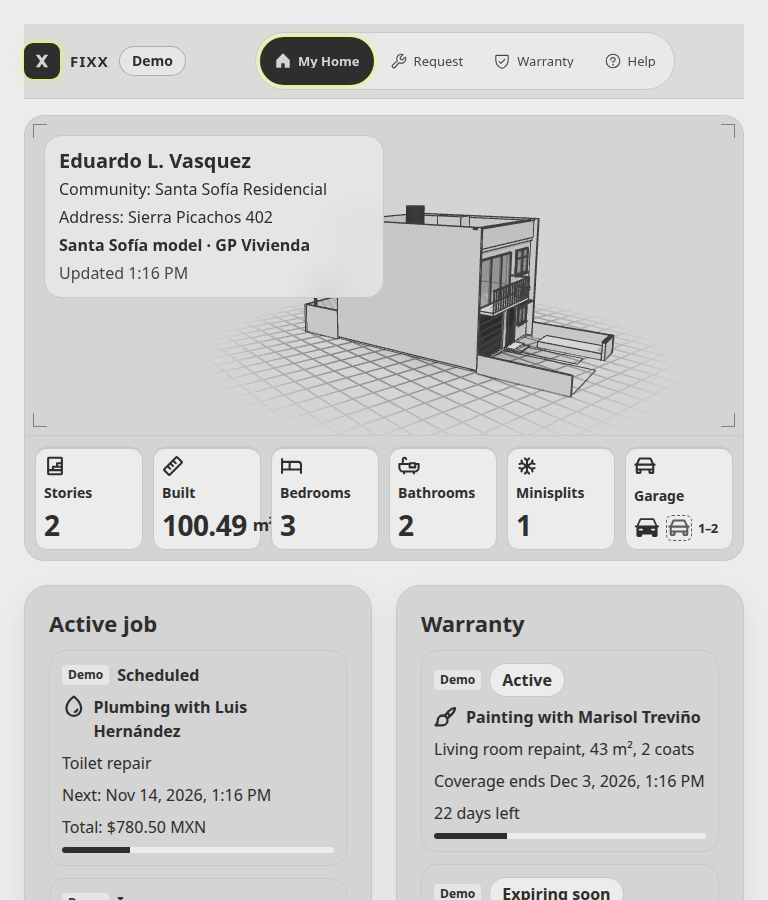
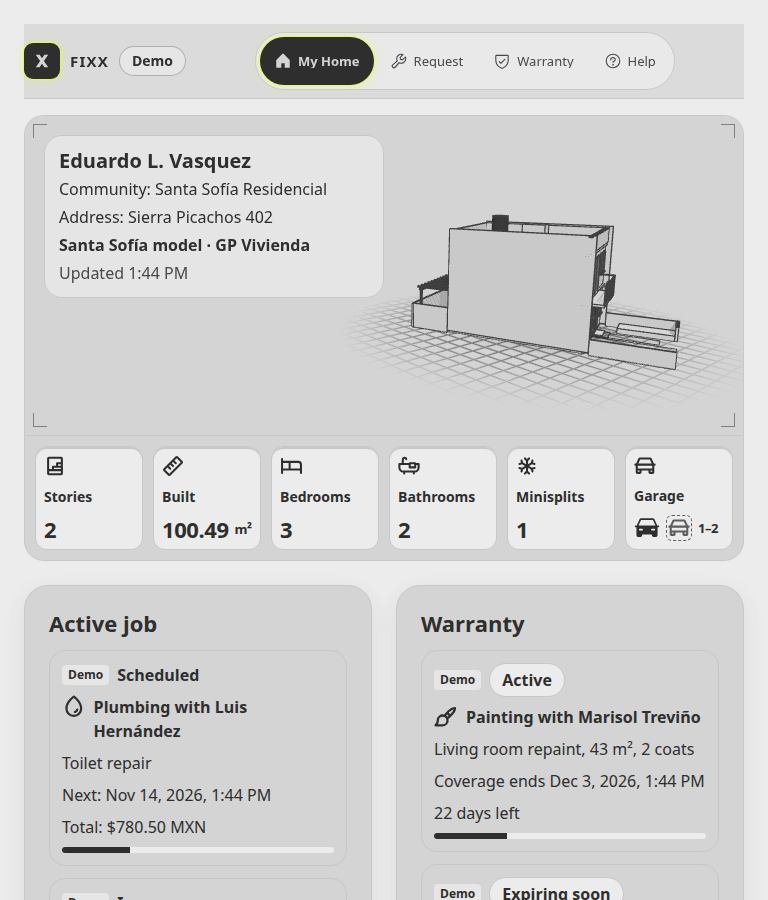
Keep the tablet house clear of the name plate and fit the area value.
At 768 the whole model stays at least 16px to the right of the plate, including a selected fact. Wide readout values stay 22px until a cell is 140px wide, and the built view pulls back far enough to show the slab and the roof.

diff --git a/src/features/customer/blueprint/houseModel.ts b/src/features/customer/blueprint/houseModel.ts
@@ -165,6 +165,102 @@ export function placeCamera(min: Vec3, max: Vec3, aspect: number, samples = 180,
   };
 }
 
+/** Left edge, in NDC, that stays 16px right of the tablet HUD plate. */
+export function hudClearNdc(canvasWidth: number): number {
+  const plate = Math.min(340, Math.max(0, canvasWidth - 40));
+  // 16px of clearance, plus the outline stroke that sits outside the mesh box.
+  const clearPx = 20 + plate + 28;
+  return (clearPx / Math.max(canvasWidth, 1)) * 2 - 1;
+}
+
+function cameraDistance(placement: CameraPlacement): number {
+  return Math.hypot(
+    placement.position.x - placement.target.x,
+    placement.position.y - placement.target.y,
+    placement.position.z - placement.target.z
+  ) || 1;
+}
+
+function withDistance(placement: CameraPlacement, scale: number): CameraPlacement {
+  const dx = placement.position.x - placement.target.x;
+  const dy = placement.position.y - placement.target.y;
+  const dz = placement.position.z - placement.target.z;
+  return {
+    ...placement,
+    position: {
+      x: placement.target.x + dx * scale,
+      y: placement.target.y + dy * scale,
+      z: placement.target.z + dz * scale
+    },
+    far: placement.far * scale + 20
+  };
+}
+
+/** Slide the subject right. Positive bias matches fitCameraOnce. */
+export function shiftSubject(placement: CameraPlacement, aspect: number, ndcBiasX: number): CameraPlacement {
+  if (Math.abs(ndcBiasX) < 1e-4) return placement;
+  const dist = cameraDistance(placement);
+  const dir = normalize({
+    x: (placement.position.x - placement.target.x) / dist,
+    y: (placement.position.y - placement.target.y) / dist,
+    z: (placement.position.z - placement.target.z) / dist
+  });
+  const look = { x: -dir.x, y: -dir.y, z: -dir.z };
+  const right = normalize(cross(look, { x: 0, y: 1, z: 0 }));
+  const tanH = Math.tan((placement.fov * Math.PI) / 180 / 2) * Math.max(aspect, 0.2);
+  const shift = dist * tanH * ndcBiasX;
+  const target = {
+    x: placement.target.x - right.x * shift,
+    y: placement.target.y,
+    z: placement.target.z - right.z * shift
+  };
+  return {
+    ...placement,
+    target,
+    position: { x: target.x + dir.x * dist, y: target.y + dir.y * dist, z: target.z + dir.z * dist }
+  };
+}
+
+function horizontalExtents(min: Vec3, max: Vec3, placement: CameraPlacement, aspect: number, yaws: number[]): { left: number; right: number } {
+  let left = Infinity;
+  let right = -Infinity;
+  for (const yaw of yaws) {
+    for (const corner of boxCorners(min, max)) {
+      const ndc = projectedNdc(yawPoint(corner, yaw), placement, aspect);
+      left = Math.min(left, ndc.x);
+      right = Math.max(right, ndc.x);
+    }
+  }
+  return { left, right };
+}
+
+/**
+ * On a tablet the HUD covers the left of the viewport. Pull the camera back
+ * and slide the subject right until every given yaw stays 16px clear of the plate.
+ */
+export function clearBesideHud(min: Vec3, max: Vec3, aspect: number, canvasWidth: number, placement: CameraPlacement, yaw = 0, spin = false): CameraPlacement {
+  const clear = hudClearNdc(canvasWidth);
+  const rightLimit = 0.96;
+  const yaws = spin ? [yaw, yaw - 0.35, yaw + 0.35] : [yaw];
+  let scale = 1;
+  let current = placement;
+  for (let i = 0; i < 8; i++) {
+    const pulled = withDistance(placement, scale);
+    const ext = horizontalExtents(min, max, pulled, aspect, yaws);
+    const width = Math.max(ext.right - ext.left, 0.05);
+    const available = rightLimit - clear;
+    if (width > available) {
+      scale *= (width / available) * 1.06;
+      continue;
+    }
+    current = shiftSubject(pulled, aspect, clear - ext.left);
+    const after = horizontalExtents(min, max, current, aspect, yaws);
+    if (after.left >= clear - 0.02 && after.right <= rightLimit + 0.02) return current;
+    scale *= 1.1;
+  }
+  return current;
+}
+
 /** Normalized device coordinates for a perspective camera looking at its target. +Y is up. */
 export function projectedNdc(point: Vec3, placement: CameraPlacement, aspect: number): { x: number; y: number; depth: number } {
   const look = normalize({

diff --git a/src/features/customer/blueprint/HouseBlueprint.tsx b/src/features/customer/blueprint/HouseBlueprint.tsx
@@ -26,7 +26,9 @@ import {
   CAMERA_FOV_DEG,
   HOUSE_MODEL_URL,
   OUTLINE_THRESHOLD_DEG,
+  clearBesideHud,
   fitCameraOnce,
+  shiftSubject,
   placeCamera,
   shouldAutoRotate,
   toNeutralGrey,
@@ -337,18 +339,16 @@ function Scene({ motion, reduced, draw, focus, wide, tablet, onClear }: {
     pivot.updateWorldMatrix(true, true);
     let toYaw = 0;
     let placement;
-    const hudBias = tablet ? (focus ? 0.22 : 0.14) : focus && wide ? 0.28 : 0;
+    const hudBias = tablet ? 0 : focus && wide ? 0.28 : 0;
+    let framedMin = { x: 0, y: 0, z: 0 };
+    let framedMax = { x: 0, y: 0, z: 0 };
     if (!focus) {
       clearHouseFocus(house);
       const box = new Box3();
       box.setFromObject(house);
-      placement = placeCamera(
-        { x: box.min.x, y: box.min.y, z: box.min.z },
-        { x: box.max.x, y: box.max.y, z: box.max.z },
-        aspect,
-        180,
-        hudBias
-      );
+      framedMin = { x: box.min.x, y: box.min.y, z: box.min.z };
+      framedMax = { x: box.max.x, y: box.max.y, z: box.max.z };
+      placement = placeCamera(framedMin, framedMax, aspect, 180, hudBias);
     } else {
       const frame = applyHouseFocus(house, focus, new Vector2(size.width, size.height));
       const local = frameBox(frame.meshes);
@@ -360,15 +360,28 @@ function Scene({ motion, reduced, draw, focus, wide, tablet, onClear }: {
       const world = frameBox(frame.meshes);
       if (focus === "bathrooms") world.expandByScalar(1.4);
       const box = world.isEmpty() ? new Box3().setFromObject(house) : world;
-      placement = fitCameraOnce(
-        { x: box.min.x, y: box.min.y, z: box.min.z },
-        { x: box.max.x, y: box.max.y, z: box.max.z },
+      framedMin = { x: box.min.x, y: box.min.y, z: box.min.z };
+      framedMax = { x: box.max.x, y: box.max.y, z: box.max.z };
+      if (focus === "built") {
+        const full = new Box3().setFromObject(house);
+        framedMin = { x: full.min.x, y: full.min.y, z: full.min.z };
+        framedMax = { x: full.max.x, y: full.max.y, z: full.max.z };
+      }
+      placement = fitCameraOnce(framedMin, framedMax, aspect, hudBias, {
+        distanceScale: focus === "minisplits" ? 1.15 : focus === "built" ? 1.25 : 1,
+        elevate: focus === "built" ? 0.45 : 0
+      });
+    }
+    if (tablet) {
+      const full = new Box3().setFromObject(house);
+      placement = clearBesideHud(
+        { x: full.min.x, y: full.min.y, z: full.min.z },
+        { x: full.max.x, y: full.max.y, z: full.max.z },
         aspect,
-        hudBias,
-        {
-          distanceScale: focus === "minisplits" ? 1.15 : 1,
-          elevate: focus === "built" ? 0.55 : 0
-        }
+        size.width,
+        placement,
+        0,
+        !focus
       );
     }
     pivot.rotation.y = savedYaw;

diff --git a/tests/houseFocus.test.ts b/tests/houseFocus.test.ts
@@ -1,6 +1,6 @@
 import { describe, expect, it } from "vitest";
 import { focusMode, keepsFrontView, matchesFact } from "../src/features/customer/blueprint/houseFocus";
-import { fitCameraOnce, projectedNdc, yawToFace } from "../src/features/customer/blueprint/houseModel";
+import { clearBesideHud, fitCameraOnce, hudClearNdc, projectedNdc, yawPoint, yawToFace } from "../src/features/customer/blueprint/houseModel";
 
 const NAMES = [
   "GarageDoor_Panel_1", "Site_Driveway", "Ground_Wall_Interior_Garage",
@@ -51,5 +51,30 @@ describe("house fact focus", () => {
     expect(Math.abs(mid.x)).toBeLessThan(0.08);
     expect(side.x).toBeGreaterThan(0.2);
     expect(yawToFace({ x: 0, y: 1, z: 1 })).toBeTypeOf("number");
+  });
+
+  it("keeps a tablet subject 16px to the right of the HUD plate", () => {
+    const width = 700;
+    const aspect = width / 320;
+    const min = { x: -3.5, y: 0, z: -4 };
+    const max = { x: 3.5, y: 6, z: 4 };
+    const fitted = fitCameraOnce(min, max, aspect, 0);
+    const cleared = clearBesideHud(min, max, aspect, width, fitted, 0, true);
+    const clear = hudClearNdc(width);
+    let left = Infinity;
+    let right = -Infinity;
+    for (const yaw of [0, -0.35, 0.35]) {
+      for (const x of [min.x, max.x]) {
+        for (const y of [min.y, max.y]) {
+          for (const z of [min.z, max.z]) {
+            const ndc = projectedNdc(yawPoint({ x, y, z }, yaw), cleared, aspect);
+            left = Math.min(left, ndc.x);
+            right = Math.max(right, ndc.x);
+          }
+        }
+      }
+    }
+    expect(left).toBeGreaterThanOrEqual(clear - 0.03);
+    expect(right).toBeLessThanOrEqual(1);
   });
 });

diff --git a/src/features/customer/homeGlass.css b/src/features/customer/homeGlass.css
@@ -173,7 +173,8 @@
   }
 }
 
-/* After the base readout rules, so 104px / 28px win over the phone sizes. */
+/* After the base readout rules, so these sizes win over the phone ones.
+   28px values need a 140px cell: 6×140 + gaps and padding is about 910px. */
 @container (min-width: 680px) {
   .cockpit-console {
     grid-template-columns: repeat(6, minmax(0, 1fr));
@@ -181,7 +182,11 @@
     padding: 10px;
   }
 
-  .cockpit-console .home-readout { min-height: 104px; height: 104px; }
+  .cockpit-console .home-readout { min-height: 104px; }
+  .cockpit-console .home-readout-value { font-size: 22px; }
+}
+
+@container (min-width: 910px) {
   .cockpit-console .home-readout-value { font-size: 28px; }
 }
 
@@ -221,14 +226,14 @@
   min-height: 28px;
   height: auto;
   margin: 0;
-  padding: 4px 10px;
+  padding: 3px 10px;
   border: 2px solid theme("colors.ink");
   border-radius: 999px;
   background: theme("colors.mist");
   color: theme("colors.ink");
   font-size: 14px;
   font-weight: 700;
-  line-height: 1.3;
+  line-height: 1.2;
 }
 
 .home-rooms {
